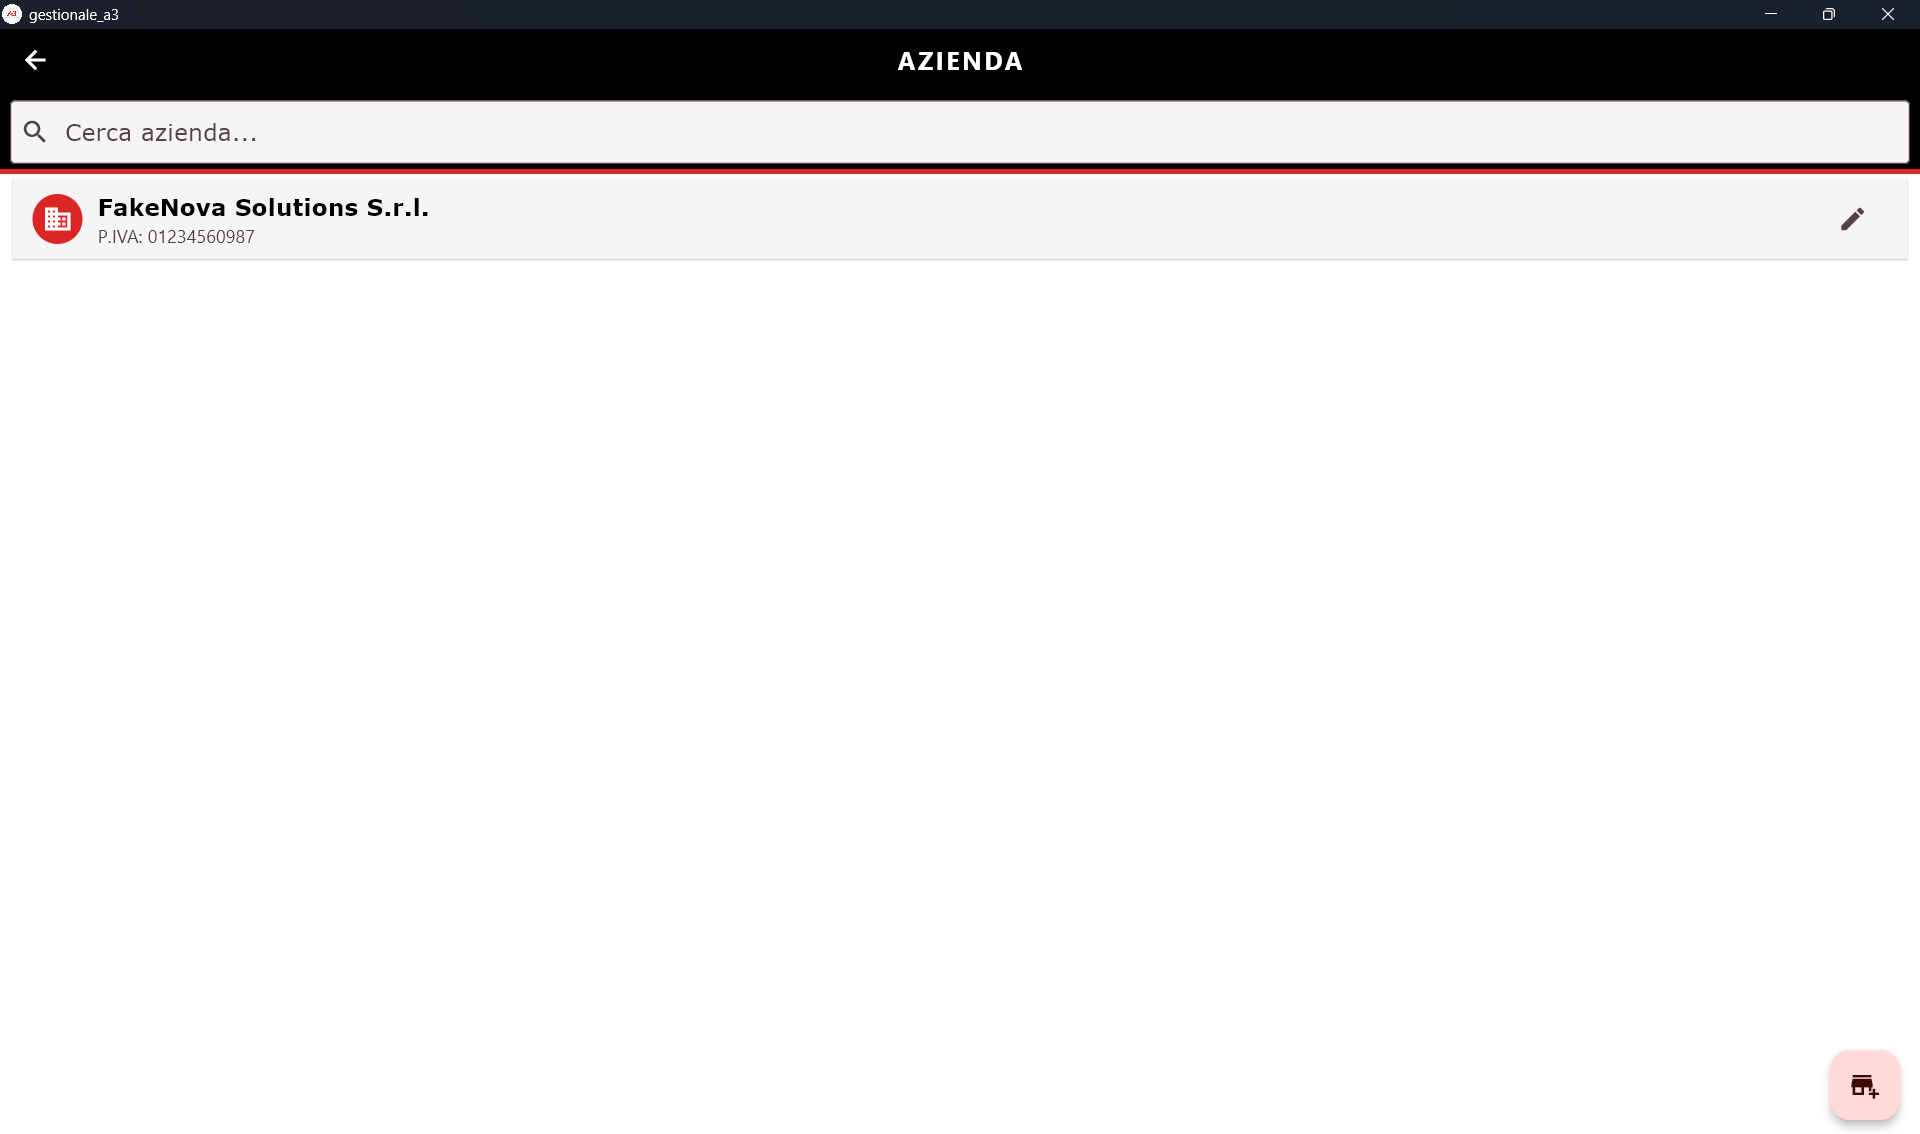
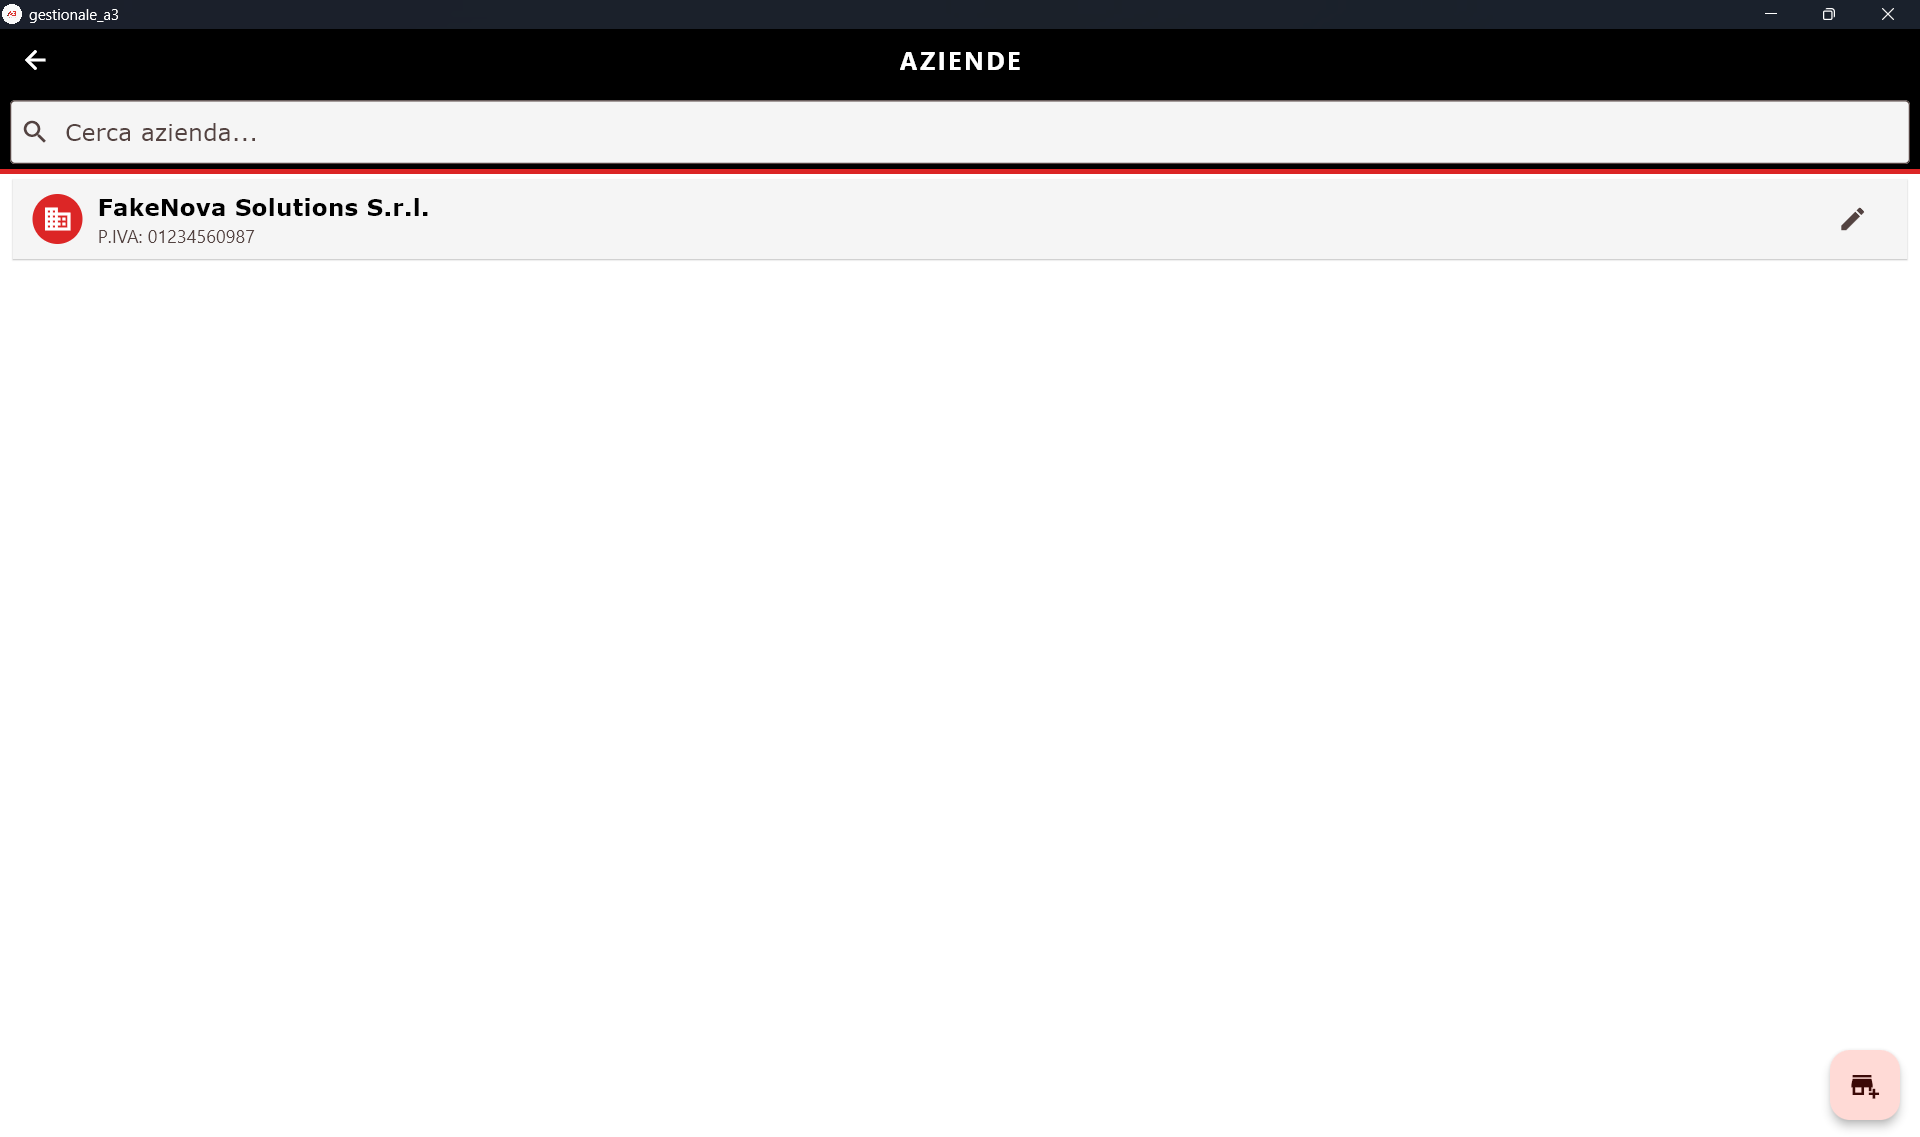
fixed typo

diff --git a/lib/views/aziende_list_view.dart b/lib/views/aziende_list_view.dart
@@ -73,7 +73,7 @@ class _AziendeListViewState extends State<AziendeListView> {
       appBar: AppBar(
         centerTitle: true,
         title: Text(
-          _isSelectionMode ? '${_selectedIds.length} SELEZIONATE' : 'AZIENDA',
+          _isSelectionMode ? '${_selectedIds.length} SELEZIONATE' : 'AZIENDE',
         ),
         actions: [
           if (_isSelectionMode)
